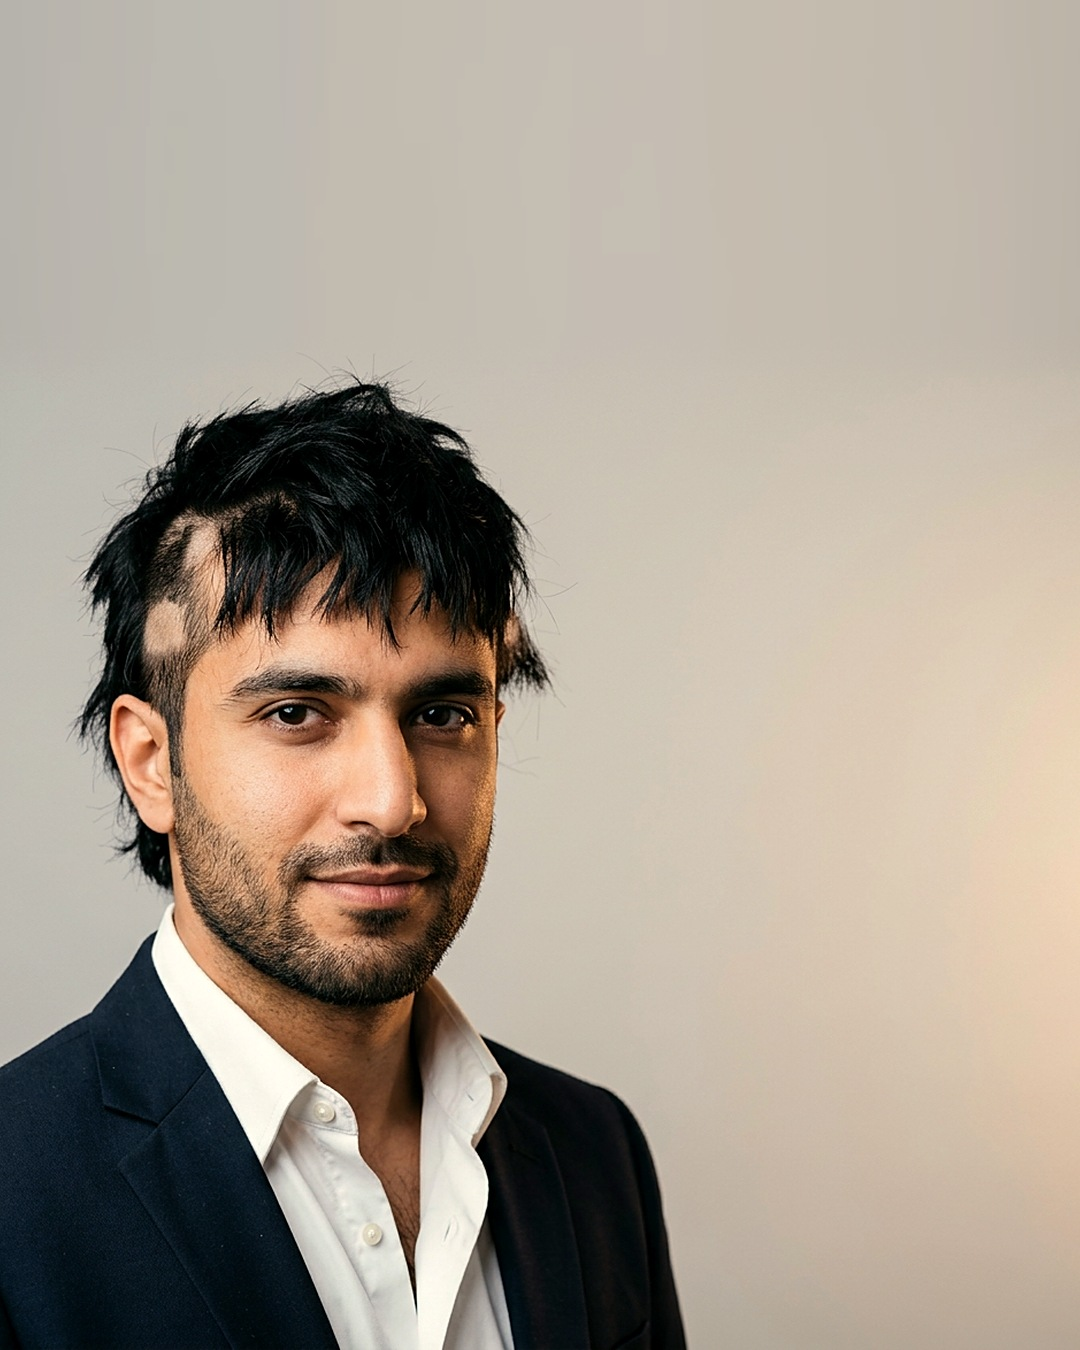
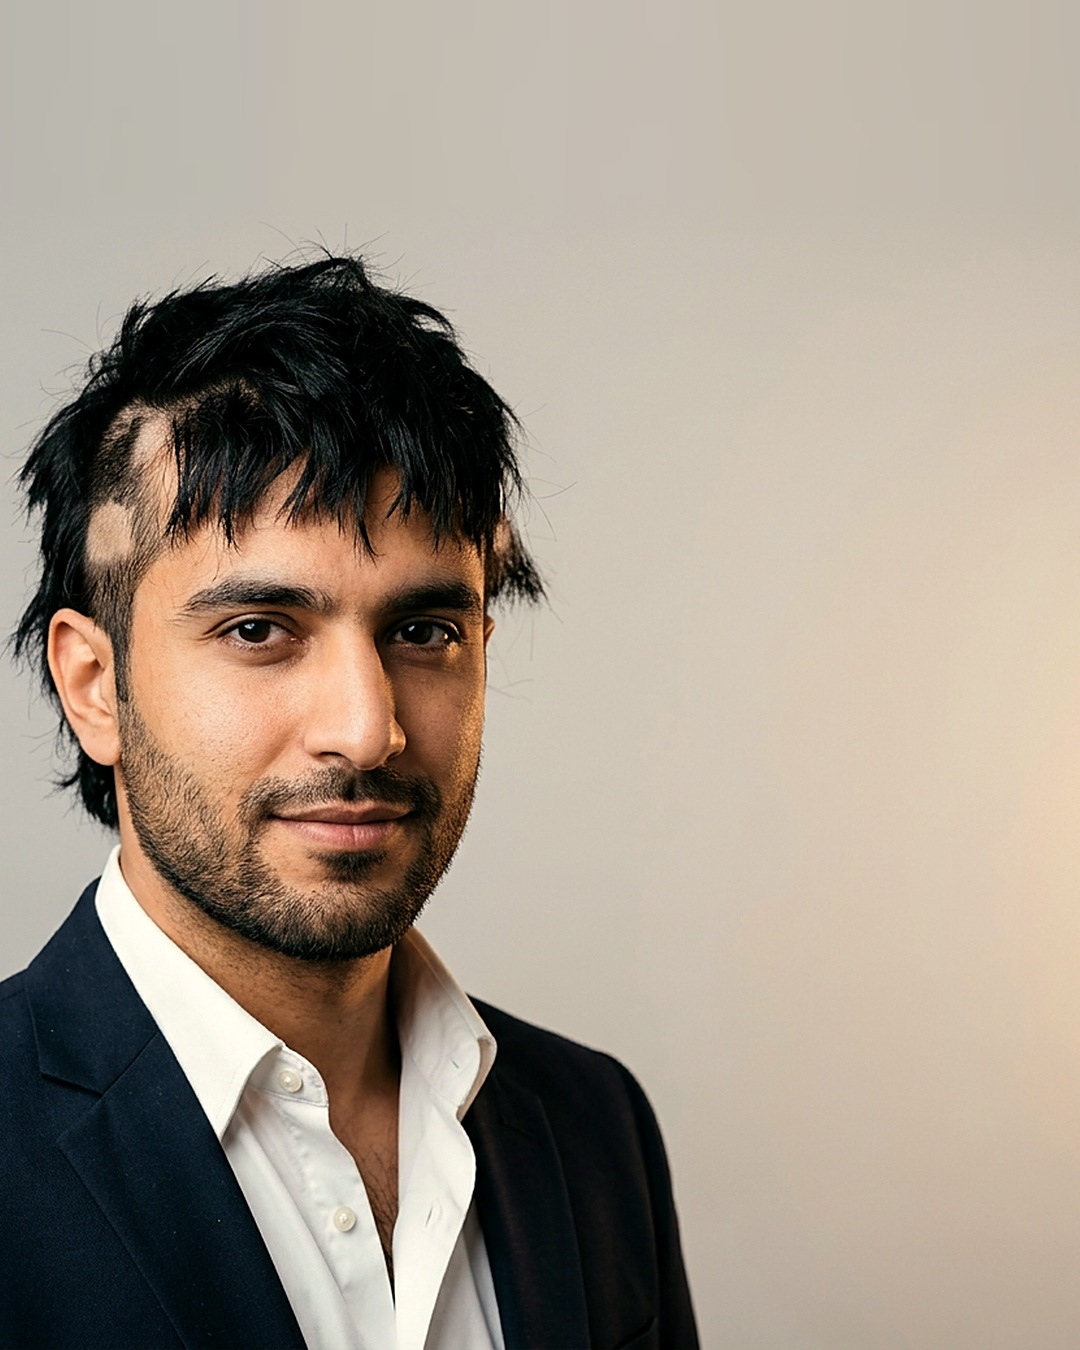
allawi.psd haircut post: bigger, sharper guy; smaller text column
Claude-Session: https://claude.ai/code/session_013oWw8PeK3nbdaZG97hkGWn

Changed region(s): [[0.0, 0.1867, 0.6722, 1.0], [0.0917, 0.8089, 0.1222, 0.84]]

diff --git a/marketing/ig-diy-haircut/post.html b/marketing/ig-diy-haircut/post.html
@@ -14,16 +14,16 @@ body { background:#222; display:flex; justify-content:center; padding:40px 0; di
   font-family:'DG Sahabah', 'Alexandria', sans-serif; font-weight:400; font-synthesis:none }
 .paperTx { position:absolute; inset:0; background:url(img/paper.jpg) center/cover; mix-blend-mode:multiply; opacity:.16; pointer-events:none }
 .grain { position:absolute; inset:0; background:url(../hf-dollar-reel/assets/img/grain.png) 0 0/420px; mix-blend-mode:overlay; opacity:.07; pointer-events:none }
-.vig { position:absolute; inset:0; background:radial-gradient(120% 85% at 40% 45%, rgba(0,0,0,0) 58%, rgba(20,12,8,.42) 100%); pointer-events:none }
+.vig { position:absolute; inset:0; background:radial-gradient(120% 85% at 40% 45%, rgba(0,0,0,0) 58%, rgba(20,12,8,.3) 100%); pointer-events:none }
 
 /* a torn strip of cream paper: the drop shadow sits on a wrapper so the clip-path does not cut it off */
 .sw { position:absolute; filter:drop-shadow(0 12px 14px rgba(0,0,0,.32)) drop-shadow(0 2px 3px rgba(0,0,0,.25)) }
 .strip { position:relative; background:var(--cream) url(img/paper.jpg) center/700px; background-blend-mode:multiply; color:var(--ink);
-  padding:20px 34px 30px; text-align:right; white-space:nowrap }
+  padding:16px 28px 24px; text-align:right; white-space:nowrap }
 .t1 { clip-path:polygon(0 6%, 7% 0, 16% 5%, 27% 1%, 38% 6%, 50% 0, 62% 5%, 74% 1%, 86% 6%, 100% 2%, 99% 94%, 89% 99%, 77% 95%, 64% 100%, 51% 95%, 38% 100%, 25% 95%, 12% 100%, 1% 96%) }
 .t2 { clip-path:polygon(1% 3%, 11% 0, 23% 4%, 35% 0, 47% 5%, 60% 1%, 72% 5%, 84% 0, 100% 4%, 100% 97%, 87% 100%, 75% 96%, 62% 100%, 49% 96%, 36% 100%, 23% 96%, 10% 100%, 0 95%) }
-.strip .l { font-size:76px; line-height:1.28 }
-.strip.big .l { font-size:94px }
+.strip .l { font-size:60px; line-height:1.28 }
+.strip.big .l { font-size:76px }
 .tape { position:absolute; height:50px; background:rgba(236,226,200,.78); box-shadow:0 2px 6px rgba(0,0,0,.16); z-index:2;
   clip-path:polygon(0 8%, 6% 0, 12% 10%, 20% 2%, 30% 9%, 42% 1%, 55% 8%, 66% 0, 78% 9%, 90% 2%, 100% 8%, 100% 92%, 92% 100%, 82% 90%, 70% 99%, 58% 91%, 45% 100%, 33% 92%, 21% 100%, 10% 91%, 0 98%) }
 
@@ -33,9 +33,9 @@ body { background:#222; display:flex; justify-content:center; padding:40px 0; di
 .or { color:var(--orInk) }
 
 .stamp { position:absolute; padding:6px 26px 12px; border:6px double var(--or); border-radius:14px; color:var(--or);
-  font:400 50px/1.25 'DG Sahabah'; direction:ltr; white-space:nowrap; opacity:.9; mix-blend-mode:multiply; filter:url(#stampF) }
+  font:400 40px/1.25 'DG Sahabah'; direction:ltr; white-space:nowrap; opacity:.9; mix-blend-mode:multiply; filter:url(#stampF) }
 .tag { position:absolute; background:#b8875a url(img/paper.jpg) center/500px; background-blend-mode:multiply; color:var(--ink);
-  padding:14px 30px 16px 54px; font-size:40px; line-height:1.3; white-space:nowrap;
+  padding:14px 30px 16px 54px; font-size:34px; line-height:1.3; white-space:nowrap;
   clip-path:polygon(0 0, 100% 0, 100% 100%, 0 100%, 0 50%) }
 .tagW { position:absolute; filter:drop-shadow(0 8px 10px rgba(0,0,0,.35)) }
 .hole { position:absolute; left:18px; top:50%; width:18px; height:18px; margin-top:-9px; border-radius:50%; background:#5a4636; box-shadow:inset 0 2px 3px rgba(0,0,0,.5) }
@@ -54,23 +54,23 @@ body { background:#222; display:flex; justify-content:center; padding:40px 0; di
     <div class="art" id="post">
       <div class="paperTx"></div>
 
-      <div class="sw" style="right:44px; top:84px; transform:rotate(1.8deg)">
+      <div class="sw" style="right:34px; top:70px; transform:rotate(1.8deg)">
         <div class="strip t1"><div class="l">تكدر تصمم</div><div class="l">بوستاتك بنفسك.</div></div>
       </div>
-      <div class="tape" style="right:170px; top:66px; width:140px; transform:rotate(-5deg)"></div>
+      <div class="tape" style="right:150px; top:54px; width:120px; transform:rotate(-5deg)"></div>
 
-      <div class="sw" style="right:58px; top:392px; transform:rotate(-1.6deg)">
+      <div class="sw" style="right:40px; top:330px; transform:rotate(-1.6deg)">
         <div class="strip t2"><div class="l">وتكدر هم تزيّن</div><div class="l">شعرك بنفسك.</div></div>
       </div>
-      <div class="tape" style="right:300px; top:376px; width:120px; transform:rotate(4deg)"></div>
+      <div class="tape" style="right:250px; top:316px; width:110px; transform:rotate(4deg)"></div>
 
-      <div class="sw" style="right:40px; top:706px; transform:rotate(1.2deg)">
+      <div class="sw" style="right:30px; top:588px; transform:rotate(1.2deg)">
         <div class="strip t1 big"><div class="l">ما أنصحك</div><div class="l"><span class="hl or">بالثنتين.<svg viewBox="0 0 100 40" preserveAspectRatio="none"><path d="M2 10 C 30 6, 70 12, 98 7 L 97 33 C 66 37, 34 30, 3 35 Z" fill="#f07a2e" opacity=".55"/><path d="M5 16 C 35 12, 66 18, 95 13 L 96 30 C 64 33, 36 27, 4 31 Z" fill="#e2541b" opacity=".35"/></svg></span></div></div>
       </div>
-      <div class="tape" style="right:220px; top:690px; width:150px; transform:rotate(-3deg)"></div>
+      <div class="tape" style="right:170px; top:574px; width:130px; transform:rotate(-3deg)"></div>
 
-      <div class="tagW" style="right:52px; top:1092px; transform:rotate(-2deg)"><div class="tag">خلّي التصميم على أهله.. راسلنا<span class="hole"></span></div></div>
-      <div class="stamp" style="right:110px; top:1218px; transform:rotate(-6deg)">allawi.psd</div>
+      <div class="tagW" style="right:36px; top:1130px; transform:rotate(-2deg)"><div class="tag">خلّي التصميم على أهله.. راسلنا<span class="hole"></span></div></div>
+      <div class="stamp" style="right:70px; top:1236px; transform:rotate(-6deg)">allawi.psd</div>
 
       <div class="grain"></div><div class="vig"></div>
     </div>

diff --git a/marketing/ig-diy-haircut/prep.py b/marketing/ig-diy-haircut/prep.py
@@ -1,12 +1,12 @@
-# python3 prep.py -> img/guy.jpg: the AI portrait (photo/src-guy.jpg, 1200x896) on the 1080x1350 post. Scaled 1.15x and
+# python3 prep.py -> img/guy.jpg: the AI portrait (photo/src-guy.jpg, 1200x896) on the 1080x1350 post. Scaled 1.3x and
 # set at the bottom with his face at about x 330, so the whole haircut shows and the grey wall on the right holds the
-# headline; the 320 px above the photo continue the wall (its top row, stretched and softened). Light warm grade.
+# headline; the 185 px above the photo continue the wall (its top row, stretched and softened). Light warm grade.
 from PIL import Image, ImageFilter, ImageEnhance
 
-W, H, S, X0 = 1080, 1350, 1.15, 150
+W, H, S, X0 = 1080, 1350, 1.3, 246
 src = Image.open('photo/src-guy.jpg').convert('RGB')
 ph = src.resize((round(src.width * S), round(src.height * S)), Image.LANCZOS).crop((X0, 0, X0 + W, round(src.height * S)))
-ph = ph.filter(ImageFilter.UnsharpMask(radius=1.6, percent=50, threshold=2))
+ph = ph.filter(ImageFilter.UnsharpMask(radius=1.6, percent=70, threshold=2))
 top = H - ph.height
 ext = ph.crop((0, 0, W, 6)).resize((W, top + 60), Image.BILINEAR).filter(ImageFilter.GaussianBlur(14))
 im = Image.new('RGB', (W, H))

diff --git a/marketing/ig-diy-haircut/README.md b/marketing/ig-diy-haircut/README.md
@@ -11,8 +11,8 @@ with «خلّي التصميم على أهله.. راسلنا» on a kraft tag a
   person; the original post used a celebrity, which we avoided. The caption says the photo is AI-generated.
 - Look: the page's own: torn cream strips with tape, an orange highlighter on «بالثنتين», a worn stamp, paper texture
   (multiply, .16), light grain (.07) and a vignette. Font: DG Sahabah (the text has no «چ» or «گ»).
-- `prep.py` builds `img/guy.jpg`: the photo at 1.15x, set at the bottom with his face on the left, the grey wall
-  continued 320 px upward; a light warm grade.
+- `prep.py` builds `img/guy.jpg`: the photo at 1.3x, set at the bottom with his face on the left, the grey wall
+  continued 185 px upward; a light warm grade.
 - `NODE_PATH=/opt/node-tools/node_modules node render.cjs` renders `out/`. `node ../tools/textcheck.cjs post.html '#post'`
   finds no collisions.
 - `caption.txt`: the caption.
